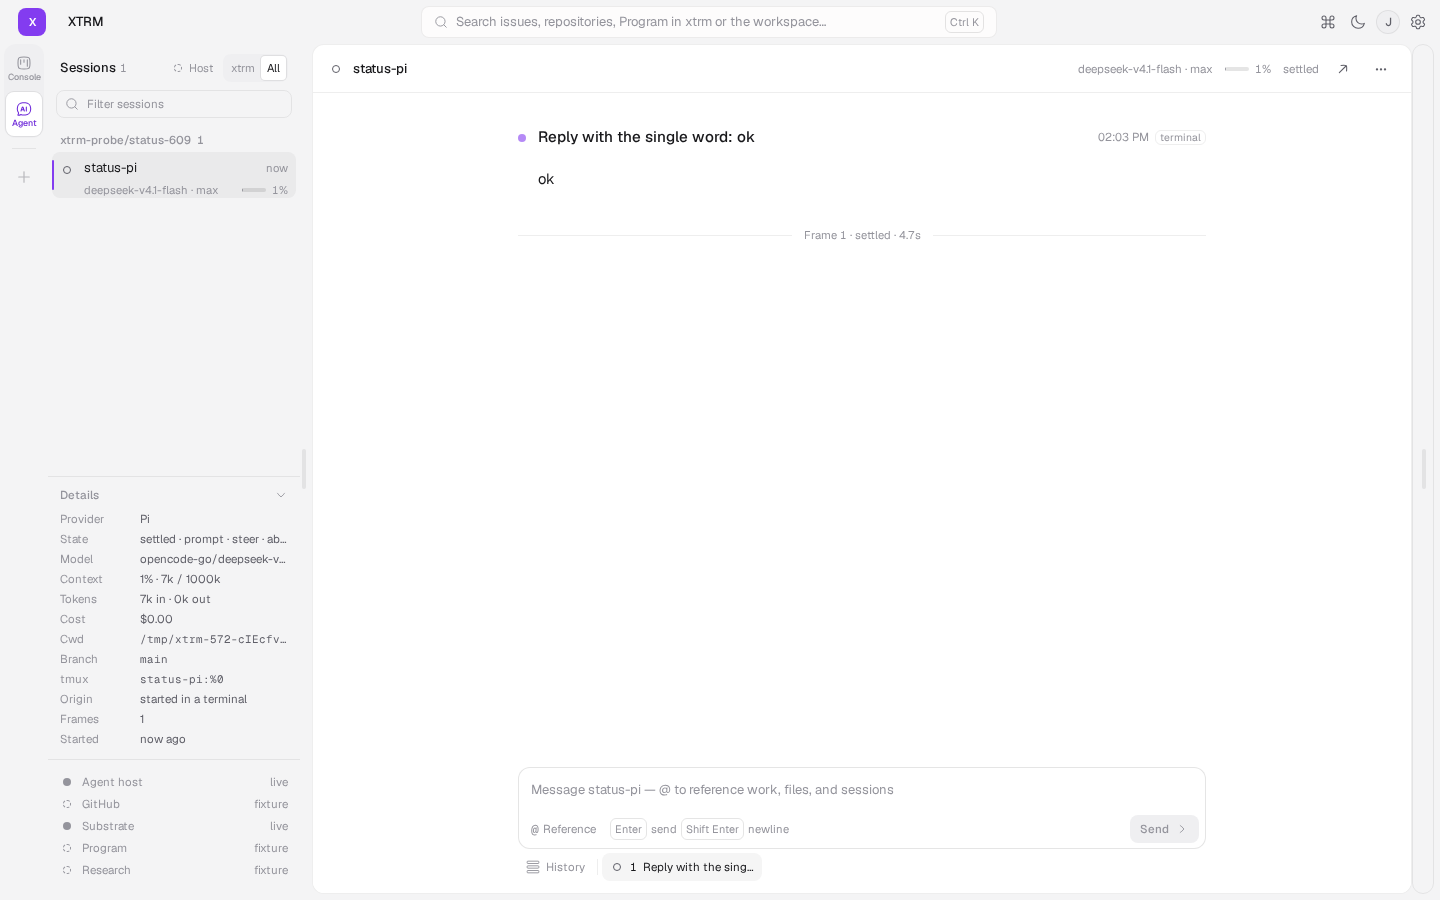
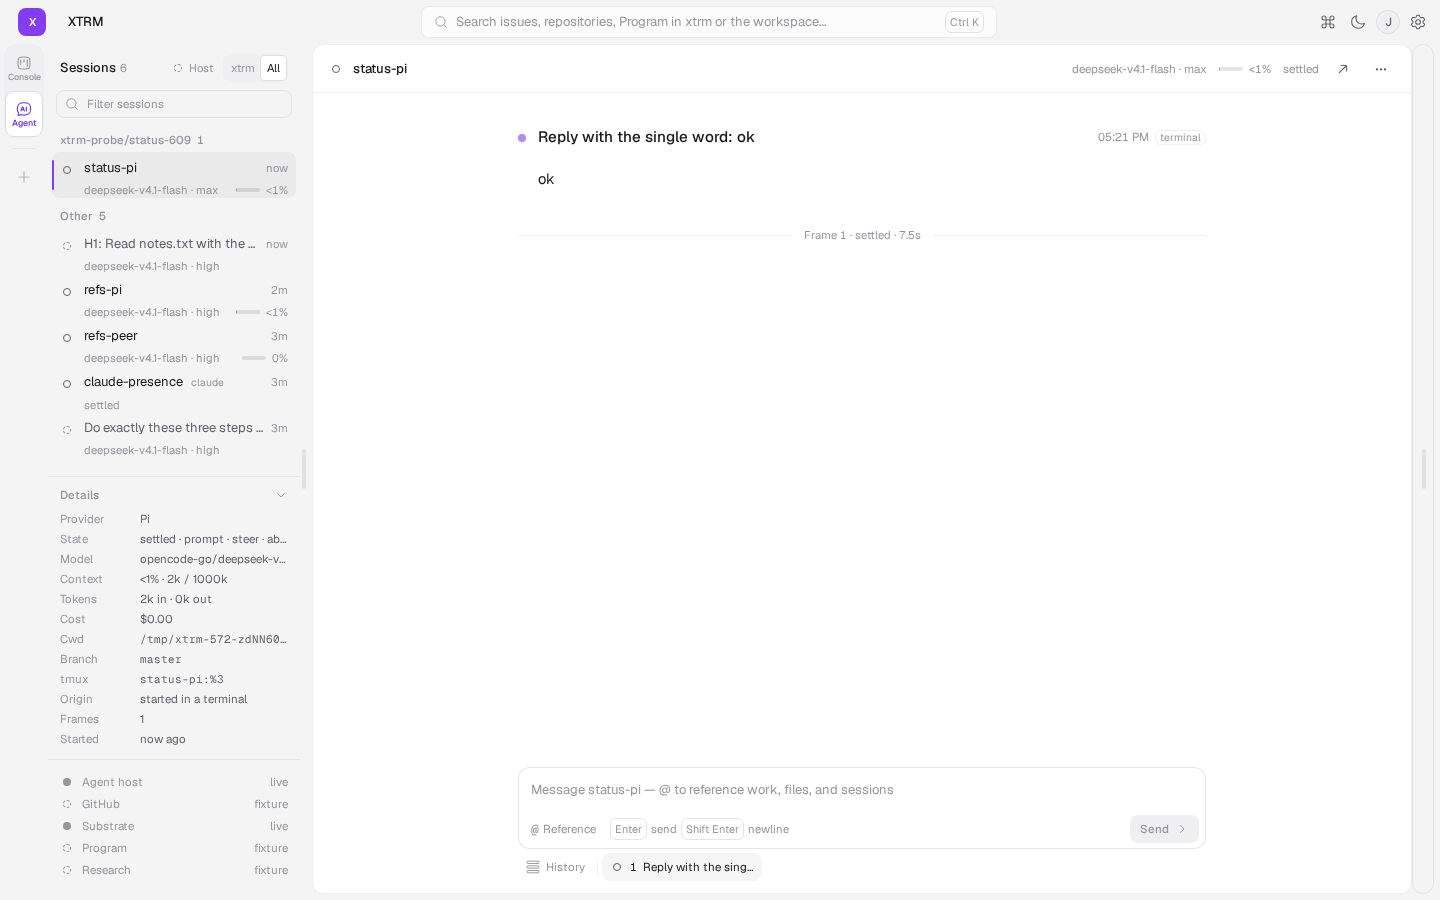
fix(xtrm-app): the context meter never reads a non-zero share as 0% (XTRM-612)
Math.round(2330/1e6*100) is 0, so on a 1M-context model the row, header and drawer
meters showed 0% after real turns and the session-status meter assertion could not
pass (found in the XTRM-605 runs). contextLabel formats utilization as whole percent
from 10, one decimal below 10 and '<1%' for a non-zero share too small for one
decimal; 0% only for an empty context. The meter fill keeps a 2% hairline for any
non-zero context, details show the label with the token counts, and the fixture
covers a 4.1M-window session at a 1% share. Real-host session-status.spec now also
asserts the meter is not '0%' after a turn (host tokens 2388/1M rendered '<1%').

diff --git a/packages/xtrm-app/src/agent/meta.test.tsx b/packages/xtrm-app/src/agent/meta.test.tsx
@@ -1,0 +1,55 @@
+import { describe, expect, it } from "vitest";
+import { ContextMeter, contextLabel } from "./meta.tsx";
+
+// XTRM-612: the meter must show non-zero utilization as non-zero — a whole-percent round of
+// 2330/1e6 is 0, which read as "0%" on a 1M-context model after real turns.
+describe("contextLabel", () => {
+  it("shows 0% only for an empty or unknown-token context", () => {
+    expect(contextLabel({ used: 0, window: 1_000_000 })).toBe("0%");
+    expect(contextLabel({ used: 0, window: 200_000 })).toBe("0%");
+    expect(contextLabel(null)).toBe(null);
+    expect(contextLabel(undefined)).toBe(null);
+    expect(contextLabel({ used: 5000, window: 0 })).toBe(null);
+  });
+
+  it("never shows 0% for a non-zero context on a large window", () => {
+    expect(contextLabel({ used: 2330, window: 1_000_000 })).toBe("<1%");
+    expect(contextLabel({ used: 9999, window: 1_000_000 })).toBe("<1%");
+    expect(contextLabel({ used: 1000, window: 1_000_000 })).toBe("<1%");
+  });
+
+  it("shows one decimal below 10% and whole percent from 10", () => {
+    expect(contextLabel({ used: 10_000, window: 1_000_000 })).toBe("1.0%");
+    expect(contextLabel({ used: 50_000, window: 1_000_000 })).toBe("5.0%");
+    expect(contextLabel({ used: 60_000, window: 1_000_000 })).toBe("6.0%");
+    expect(contextLabel({ used: 4096, window: 40_960 })).toBe("10%");
+    expect(contextLabel({ used: 128_400, window: 200_000 })).toBe("64%");
+    expect(contextLabel({ used: 990_000, window: 1_000_000 })).toBe("99%");
+  });
+
+  it("shows no decimal on whole-percent values", () => {
+    expect(contextLabel({ used: 1000, window: 10000 })).toBe("10%");
+  });
+});
+
+describe("ContextMeter", () => {
+  it("does not render without a context or with a non-positive window", () => {
+    expect(ContextMeter({ context: null, className: undefined })).toBe(null);
+    expect(ContextMeter({ context: { used: 999, window: 0 }, className: undefined })).toBe(null);
+    expect(ContextMeter({ context: { used: 999, window: -5 }, className: undefined })).toBe(null);
+  });
+
+  it("renders the precise label for sub-10% utilization", () => {
+    const meter = ContextMeter({ context: { used: 2330, window: 1_000_000 }, className: undefined })!;
+    expect(meter.type).toBe("span");
+    expect(JSON.stringify(meter.props)).not.toContain("0% used");
+    expect(JSON.stringify(meter.props)).toContain("<1% used");
+  });
+
+  it("renders a hairline fill for any non-zero context", () => {
+    const meter = ContextMeter({ context: { used: 2330, window: 1_000_000 }, className: undefined })!;
+    expect(JSON.stringify(meter.props)).toContain("2%");
+    const empty = ContextMeter({ context: { used: 0, window: 200_000 }, className: undefined })!;
+    expect(JSON.stringify(empty.props)).toContain("0%");
+  });
+});

diff --git a/packages/xtrm-app/src/agent/meta.tsx b/packages/xtrm-app/src/agent/meta.tsx
@@ -50,21 +50,33 @@ export const REF_LABEL: Record<RefKind, string> = {
   frame: "Frame",
 };
 
-export function contextPercent(s: Pick<AgentSessionSummary, "context">): number | null {
-  if (!s.context || s.context.window <= 0) return null;
-  return Math.round((s.context.used / s.context.window) * 100);
+/**
+ * The utilization shown as text (XTRM-612): whole percent from 10, one decimal below 10,
+ * `<1%` for a non-zero share too small for one decimal, `0%` only for an empty context —
+ * rounding 2330/1e6 to a whole percent must not show 0% on a 1M-window model.
+ */
+export function contextLabel(context: { used: number; window: number } | null | undefined): string | null {
+  if (!context || context.window <= 0) return null;
+  const pct = (context.used / context.window) * 100;
+  if (pct <= 0) return "0%";
+  if (pct < 1) return "<1%";
+  if (pct < 10) return `${pct.toFixed(1)}%`;
+  return `${Math.round(pct)}%`;
 }
 
-/** Context utilization: a number and a hairline meter; colour only past 85% (§15.1). */
-export function ContextMeter({ percent, className }: { percent: number | null; className?: string }) {
-  if (percent === null) return null;
-  const hot = percent >= 85;
+/** Context utilization: a number and a hairline meter; colour only past 85% (§15.1). The fill
+ * keeps a visible hairline for any non-zero context (XTRM-612). */
+export function ContextMeter({ context, className }: { context: { used: number; window: number } | null; className?: string }) {
+  if (!context || context.window <= 0) return null;
+  const pct = (context.used / context.window) * 100;
+  const label = contextLabel(context)!;
+  const hot = pct >= 85;
   return (
-    <span className={cx("inline-flex items-center gap-1.5", className)} title={`Context ${percent}% used`}>
+    <span className={cx("inline-flex items-center gap-1.5", className)} title={`Context ${label} used`}>
       <span className="relative h-1 w-6 overflow-hidden rounded-full bg-border">
-        <span className={cx("absolute inset-y-0 left-0 rounded-full", hot ? "bg-danger" : "bg-ink-faint")} style={{ width: `${Math.min(100, percent)}%` }} />
+        <span className={cx("absolute inset-y-0 left-0 rounded-full", hot ? "bg-danger" : "bg-ink-faint")} style={{ width: `${pct > 0 ? Math.min(100, Math.max(pct, 2)) : 0}%` }} />
       </span>
-      <span className={cx("tabular", hot ? "text-danger" : undefined)}>{percent}%</span>
+      <span className={cx("tabular", hot ? "text-danger" : undefined)}>{label}</span>
     </span>
   );
 }

diff --git a/packages/xtrm-app/src/agent/AgentSidebar.tsx b/packages/xtrm-app/src/agent/AgentSidebar.tsx
@@ -7,7 +7,7 @@ import { useShell } from "../shell/context.tsx";
 import { Icon } from "../ui/icon.tsx";
 import { IconButton, Row, StatusDot, cx, relativeTime } from "../ui/primitives.tsx";
 import { HostConnectionPanel, HostConnectionToggle } from "./HostConnection.tsx";
-import { ContextMeter, STATE_LABEL, STATE_TONE, contextPercent, modelLabel, type ShownState } from "./meta.tsx";
+import { ContextMeter, STATE_LABEL, STATE_TONE, contextLabel, modelLabel, type ShownState } from "./meta.tsx";
 import { useAgentSession, useAgentSessions, useShownState } from "./queries.ts";
 
 export type SessionScope = "repository" | "all";
@@ -74,7 +74,6 @@ export function buildSessionItems(sessions: AgentSessionSummary[], scope: Sessio
 }
 
 function SessionRow({ s, depth, selected, onOpen }: { s: AgentSessionSummary; depth: number; selected: boolean; onOpen: () => void }) {
-  const pct = contextPercent(s);
   const meta = [s.role, s.workRef, modelLabel(s)].filter(Boolean);
   const state = useShownState(s.state);
   return (
@@ -99,7 +98,7 @@ function SessionRow({ s, depth, selected, onOpen }: { s: AgentSessionSummary; de
         </span>
         <span className="flex min-w-0 items-center gap-1.5 text-[0.7rem] text-ink-faint">
           <span className="truncate">{meta.join(" · ") || STATE_LABEL[state]}</span>
-          {pct !== null && <ContextMeter percent={pct} className="ml-auto shrink-0" />}
+          {s.context && <ContextMeter context={s.context} className="ml-auto shrink-0" />}
         </span>
       </span>
     </Row>
@@ -148,7 +147,7 @@ function SessionDetails({ id }: { id: string }) {
           <Detail label="Provider" value={PROVIDER_LABEL[s.provider]} />
           <Detail label="State" value={stateWithCapabilities(s, state)} />
           <Detail label="Model" value={[s.model, s.thinking].filter(Boolean).join(" · ")} />
-          <Detail label="Context" value={s.context ? `${contextPercent(s)}% · ${Math.round(s.context.used / 1000)}k / ${Math.round(s.context.window / 1000)}k` : null} />
+          <Detail label="Context" value={s.context ? `${contextLabel(s.context)} · ${Math.round(s.context.used / 1000)}k / ${Math.round(s.context.window / 1000)}k` : null} />
           <Detail label="Tokens" value={tokens} />
           <Detail label="Cost" value={s.costUsd !== null ? `$${s.costUsd.toFixed(2)}` : null} />
           <Detail label="Cwd" value={s.cwd} mono />

diff --git a/packages/xtrm-app/src/agent/AgentSurface.tsx b/packages/xtrm-app/src/agent/AgentSurface.tsx
@@ -11,7 +11,7 @@ import { ActivityThread } from "./Activity.tsx";
 import { Composer, ComposerNotice } from "./Composer.tsx";
 import { AgentRefChip } from "./RefChip.tsx";
 import { useOpenInTerminal } from "./HostConnection.tsx";
-import { ContextMeter, STATE_LABEL, STATE_TONE, contextPercent, duration, modelLabel } from "./meta.tsx";
+import { ContextMeter, STATE_LABEL, STATE_TONE, contextLabel, duration, modelLabel } from "./meta.tsx";
 import { useAgentLive, useAgentSession, useAgentSessions, useRespond, useShownState, useStreamState } from "./queries.ts";
 import { useAgentStore, useAgentStoreVersion } from "./workspace.tsx";
 
@@ -39,7 +39,7 @@ function SessionHeader({ s }: { s: AgentSessionDetail }) {
       {s.workRef && <AgentRefChip reference={{ kind: "issue", ref: s.workRef }} className="shrink-0" />}
       <span className="ml-auto flex shrink-0 items-center gap-3 text-xs text-ink-faint">
         {s.model && <span className="hidden md:inline">{modelLabel(s)}</span>}
-        <ContextMeter percent={contextPercent(s)} />
+        <ContextMeter context={s.context} />
         {state !== "disconnected" && <span className="hidden sm:inline">{STATE_LABEL[state]}</span>}
         <StreamState />
       </span>

diff --git a/packages/xtrm-app/src/agent/DrawerPanels.tsx b/packages/xtrm-app/src/agent/DrawerPanels.tsx
@@ -3,7 +3,7 @@ import { useAdapters, type AgentRef } from "../adapters/index.tsx";
 import { useGo } from "../shell/ContextSidebar.tsx";
 import { ContentPanel, EmptyState, LoadingState, StatusDot, relativeTime } from "../ui/primitives.tsx";
 import { AgentRefChip } from "./RefChip.tsx";
-import { ContextMeter, REF_LABEL, STATE_LABEL, STATE_TONE, contextPercent, modelLabel } from "./meta.tsx";
+import { ContextMeter, REF_LABEL, STATE_LABEL, STATE_TONE, contextLabel, modelLabel } from "./meta.tsx";
 import { useAgentSession, useShownState } from "./queries.ts";
 import { useAgentStore } from "./workspace.tsx";
 
@@ -37,7 +37,7 @@ export function SessionPanel({ id }: { id: string }) {
         </div>
         <p className="flex flex-wrap items-center gap-x-2 gap-y-1 text-xs text-ink-faint">
           <span>{[STATE_LABEL[state], s.role, modelLabel(s)].filter(Boolean).join(" · ")}</span>
-          <ContextMeter percent={contextPercent(s)} />
+          <ContextMeter context={s.context} />
           {s.workRef && <AgentRefChip reference={{ kind: "issue", ref: s.workRef }} />}
         </p>
       </div>

diff --git a/packages/xtrm-app/e2e/agent.spec.ts b/packages/xtrm-app/e2e/agent.spec.ts
@@ -40,8 +40,9 @@ test("session rows show live state, role, work item, model, context, and last ac
   await expect(row).toContainText("now");
   await expect(page.getByTestId("session-details")).toContainText("anthropic/claude-opus-5-5 · high");
   await expect(page.getByTestId("session-details")).toContainText("64% · 128k / 200k");
+  // A large-context one-decimal share shows its decimal, never a rounded 0% (XTRM-612).
+  await expect(sessionRow(page, "quant-reviewer")).toContainText("1.0%");
   await expect(page.getByTestId("session-details")).toContainText("started in a terminal");
-  await expect(page.getByTestId("session-details")).toContainText("xtrm-main:%12");
 
   // Children thread under their coordinator; history-only sessions sit apart.
   await expect(sessionRow(page, "quant-reviewer")).toHaveAttribute("aria-label", "quant-reviewer · waiting for input");

diff --git a/packages/xtrm-app/e2e/real-host/session-status.spec.ts b/packages/xtrm-app/e2e/real-host/session-status.spec.ts
@@ -77,6 +77,9 @@ test("session rows show host model, thinking level, context meter and owner/name
   log(s, `xtrm-609 host summary after turn: ${status(after)}`);
   await expect.poll(async () => (await contextDetail(page).innerText()).trim(), { timeout: 30_000 }).not.toBe(detailBefore);
   await expect.poll(async () => (await meter(row).innerText()).trim(), { timeout: 30_000 }).not.toBe(meterBefore);
+  // XTRM-612: a 1M-window model must never show a rounded-away 0% after real turns.
+  expect(after.contextUsage!.tokens).toBeGreaterThan(0);
+  expect((await meter(row).innerText()).trim()).not.toBe("0%");
   log(s, `xtrm-609 app after turn: row "${(await row.innerText()).replace(/\s+/g, " ")}" meter ${(await meter(row).innerText()).trim()} context ${(await contextDetail(page).innerText()).trim()}`);
   await shoot(page, "2-after-turn");
 

diff --git a/packages/xtrm-app/src/adapters/agent/fixture.ts b/packages/xtrm-app/src/adapters/agent/fixture.ts
@@ -119,9 +119,10 @@ function seed(now: number): Seed[] {
       role: "reviewer",
       workRef: "XTRM-312",
       repo: "xtrm-dev/xtrm",
-      model: "anthropic/claude-sonnet-5-5",
+      model: "openrouter/z-ai/glm-5",
       thinking: "medium",
-      context: { used: 41_000, window: 200_000 },
+      context: { used: 41_000, window: 4_100_000 },
+      // 1% share: a whole-percent round shows what a large-context model reports (XTRM-612),
       startedAt: t(70),
       lastActivityAt: t(1),
       parentId: "pi-main",
